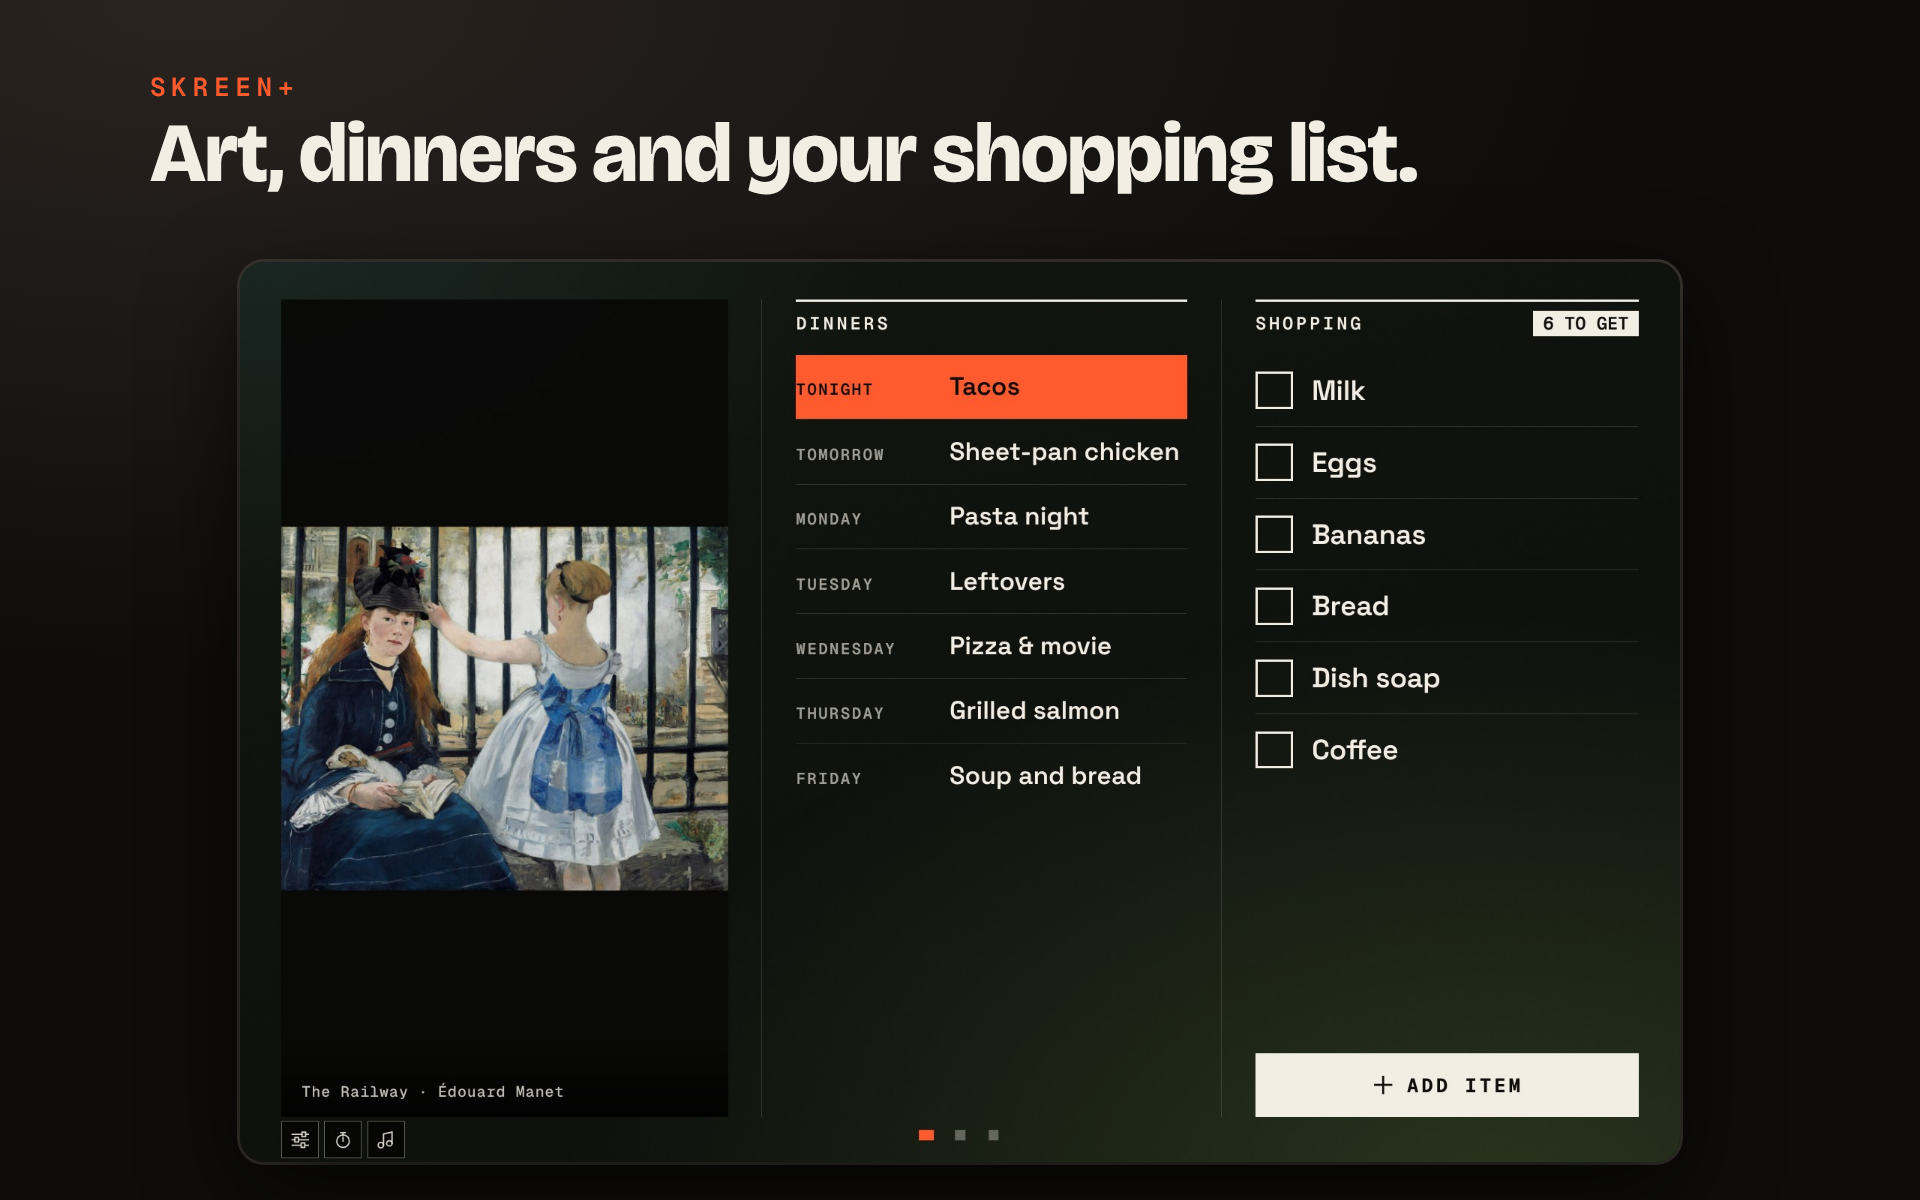
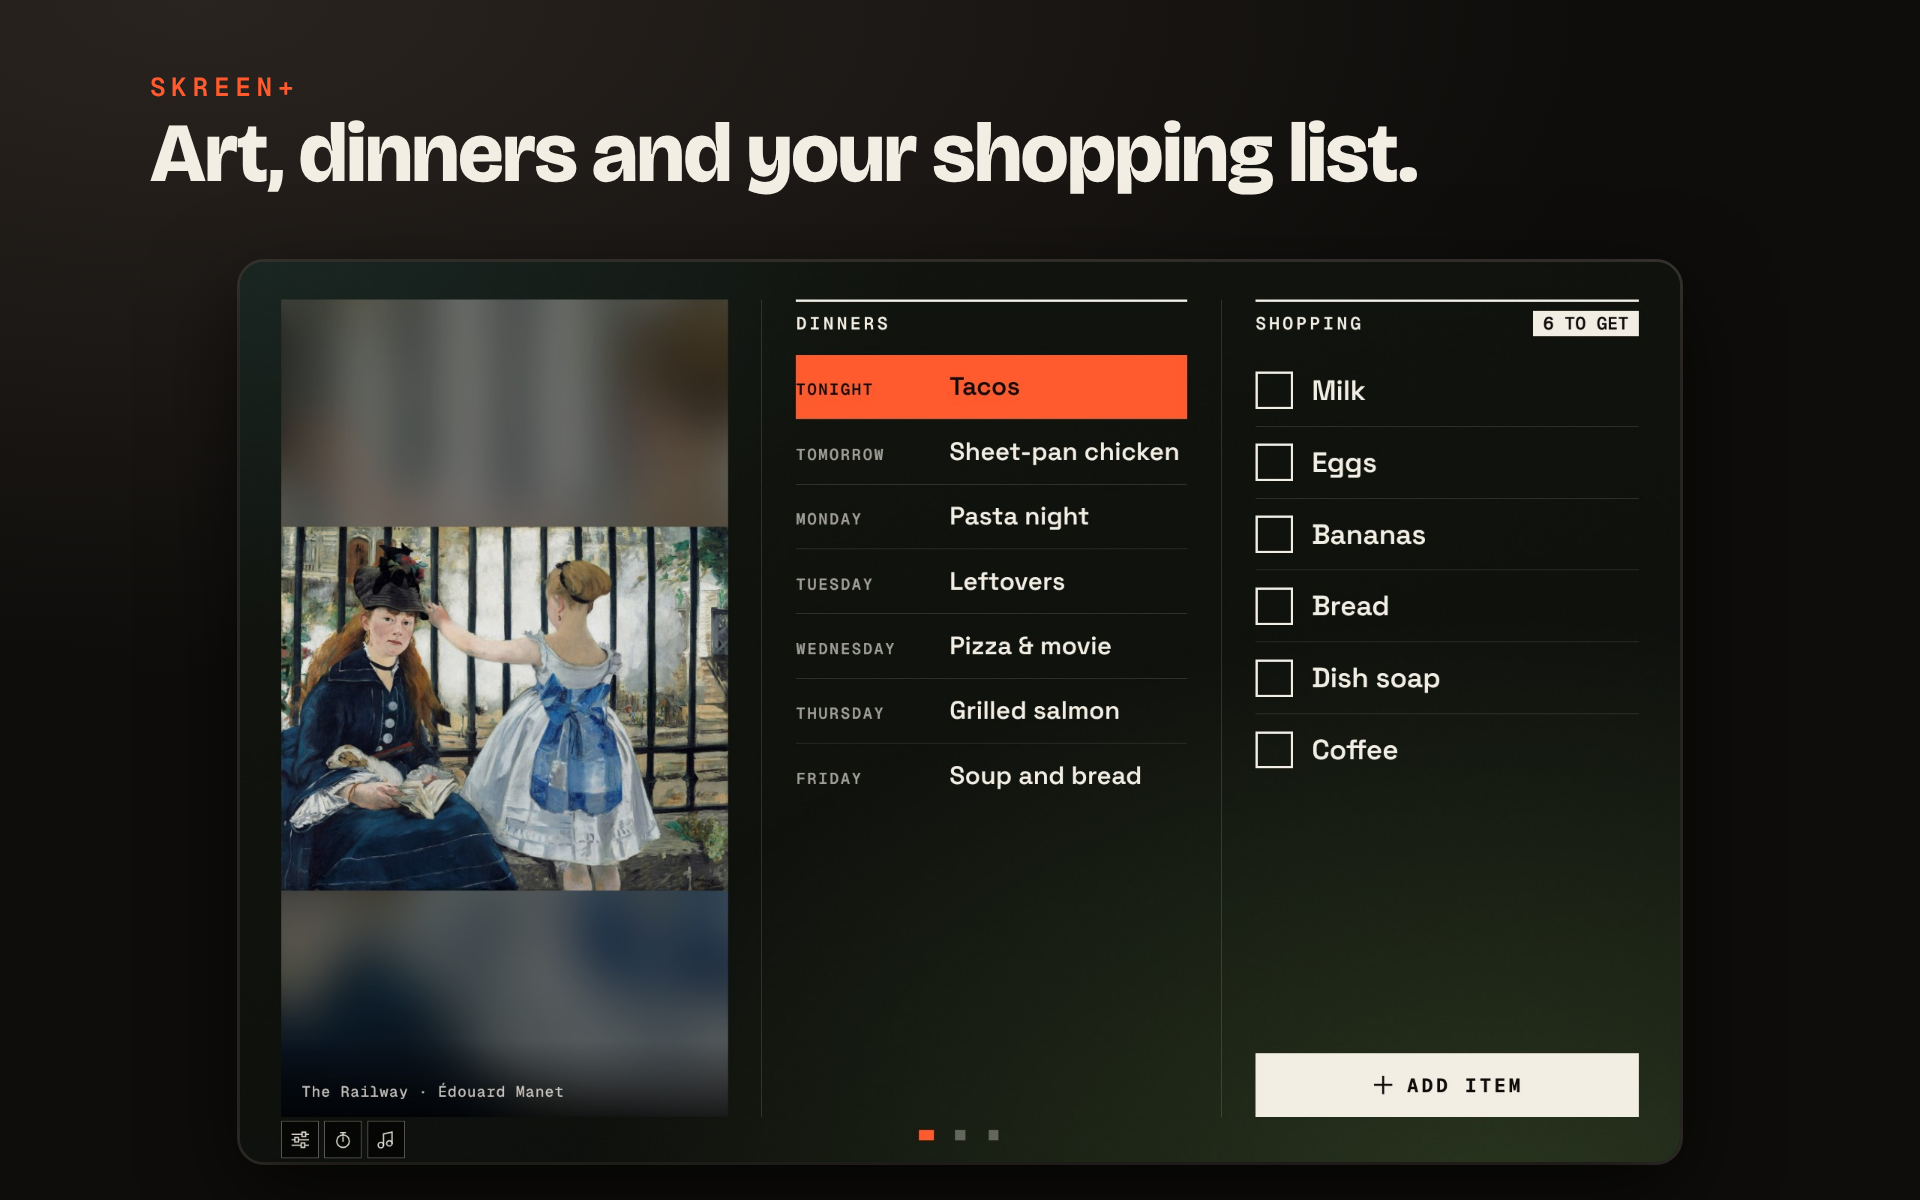
Art gallery: fill the space around a painting with a soft blur of itself instead of black bars
Claude-Session: https://claude.ai/code/session_011eTQv9VeC2pydGDdcW3LLL

Changed region(s): [[0.125, 0.2467, 0.4062, 0.4625], [0.125, 0.74, 0.4062, 0.9558]]

diff --git a/dashboard/app.js b/dashboard/app.js
@@ -1324,7 +1324,7 @@
     if (hasMediaNative()) readNow();
     updateShowNow();
     const ph = document.querySelector('#showBody .sv:not(.out) .sv-photo');   // a long photo slide keeps changing pictures
-    if (ph && photo.current && !ph.style.backgroundImage.includes(photo.current)) ph.style.backgroundImage = `url('${photo.current}')`;
+    if (ph && photo.current && !ph.style.backgroundImage.includes(photo.current)) { ph.style.backgroundImage = `url('${photo.current}')`; ph.style.setProperty('--img', `url('${photo.current}')`); }
     const cap = document.querySelector('#showBody .sv:not(.out) .sv-caption');
     if (cap && cap.textContent !== $('photoCaption').textContent) cap.textContent = $('photoCaption').textContent;
   }, 3000);
@@ -1382,7 +1382,7 @@
       const sub = np ? [np.artist, np.app].filter(Boolean).join(' \u00b7 ') : 'Internet radio';
       return `<div class="kicker">Now playing</div><div class="sv-musicrow"><div class="np-art big" ${np && music.art ? `style="background-image:url('${music.art}')"` : ''}>${np && music.art ? '' : Icons.music}</div><div class="sv-musictext"><div class="mt">${esc(title)}</div><div class="ma">${esc(sub)}</div></div></div>`;
     }
-    if (name === 'photos') return `<div class="sv-photo${photo.items[photo.order[photo.i]] && photo.items[photo.order[photo.i]].art ? ' art' : ''}" style="background-image:url('${photo.current}')"></div><div class="sv-caption">${esc($('photoCaption').textContent)}</div>`;
+    if (name === 'photos') return `<div class="sv-photo${photo.items[photo.order[photo.i]] && photo.items[photo.order[photo.i]].art ? ' art' : ''}" style="background-image:url('${photo.current}'); --img:url('${photo.current}')"></div><div class="sv-caption">${esc($('photoCaption').textContent)}</div>`;
     const now = new Date();
     if (name === 'time') {
       const { hm, ap } = timeParts(now);
@@ -1946,6 +1946,7 @@
     img.onload = () => {
       const back = photo.front === 'A' ? $('pfB') : $('pfA'), front = photo.front === 'A' ? $('pfA') : $('pfB');
       back.style.backgroundImage = `url("${img.src}")`;
+      back.style.setProperty('--img', `url("${img.src}")`);
       back.classList.toggle('art', !!item.art);
       back.classList.add('on'); front.classList.remove('on');
       photo.front = photo.front === 'A' ? 'B' : 'A';

diff --git a/dashboard/styles.css b/dashboard/styles.css
@@ -740,8 +740,10 @@ body.timer-inline .wx-days { display: none; }
 .layout-screen { padding: 0.45rem 0.8rem; font: 600 0.78rem/1 var(--mono); letter-spacing: 0.14em; text-transform: uppercase; color: var(--accent); border-top: 1px solid var(--accent); background: rgba(255, 91, 46, 0.07); }
 .news-list { -webkit-mask-image: none; mask-image: none; }
 
-.pf.art { background-size: contain; background-repeat: no-repeat; background-color: #0a0908; }
-.sv-photo.art { background-size: contain; background-repeat: no-repeat; background-color: #0a0908; }
+/* Paintings keep their whole shape. Whatever the picture doesn't cover is filled with a soft, dark blur of the same painting, not black bars. */
+.pf.art, .sv-photo.art { background-color: #0a0908; background-image: none !important; overflow: hidden; }
+.pf.art::before, .sv-photo.art::before { content: ""; position: absolute; inset: -12%; background: var(--img) center / cover no-repeat; filter: blur(34px) brightness(0.5) saturate(1.1); }
+.pf.art::after, .sv-photo.art::after { content: ""; position: absolute; inset: 0; background: var(--img) center / contain no-repeat; }
 .pf-caption { position: absolute; left: 0; right: 0; bottom: 0; padding: 2.2rem 1.1rem 0.8rem; font: 500 0.8rem/1.3 var(--mono); letter-spacing: 0.05em; color: rgba(243, 238, 227, 0.8); background: linear-gradient(to top, rgba(0, 0, 0, 0.7), transparent); }
 .pf-caption:empty { display: none; }
 
